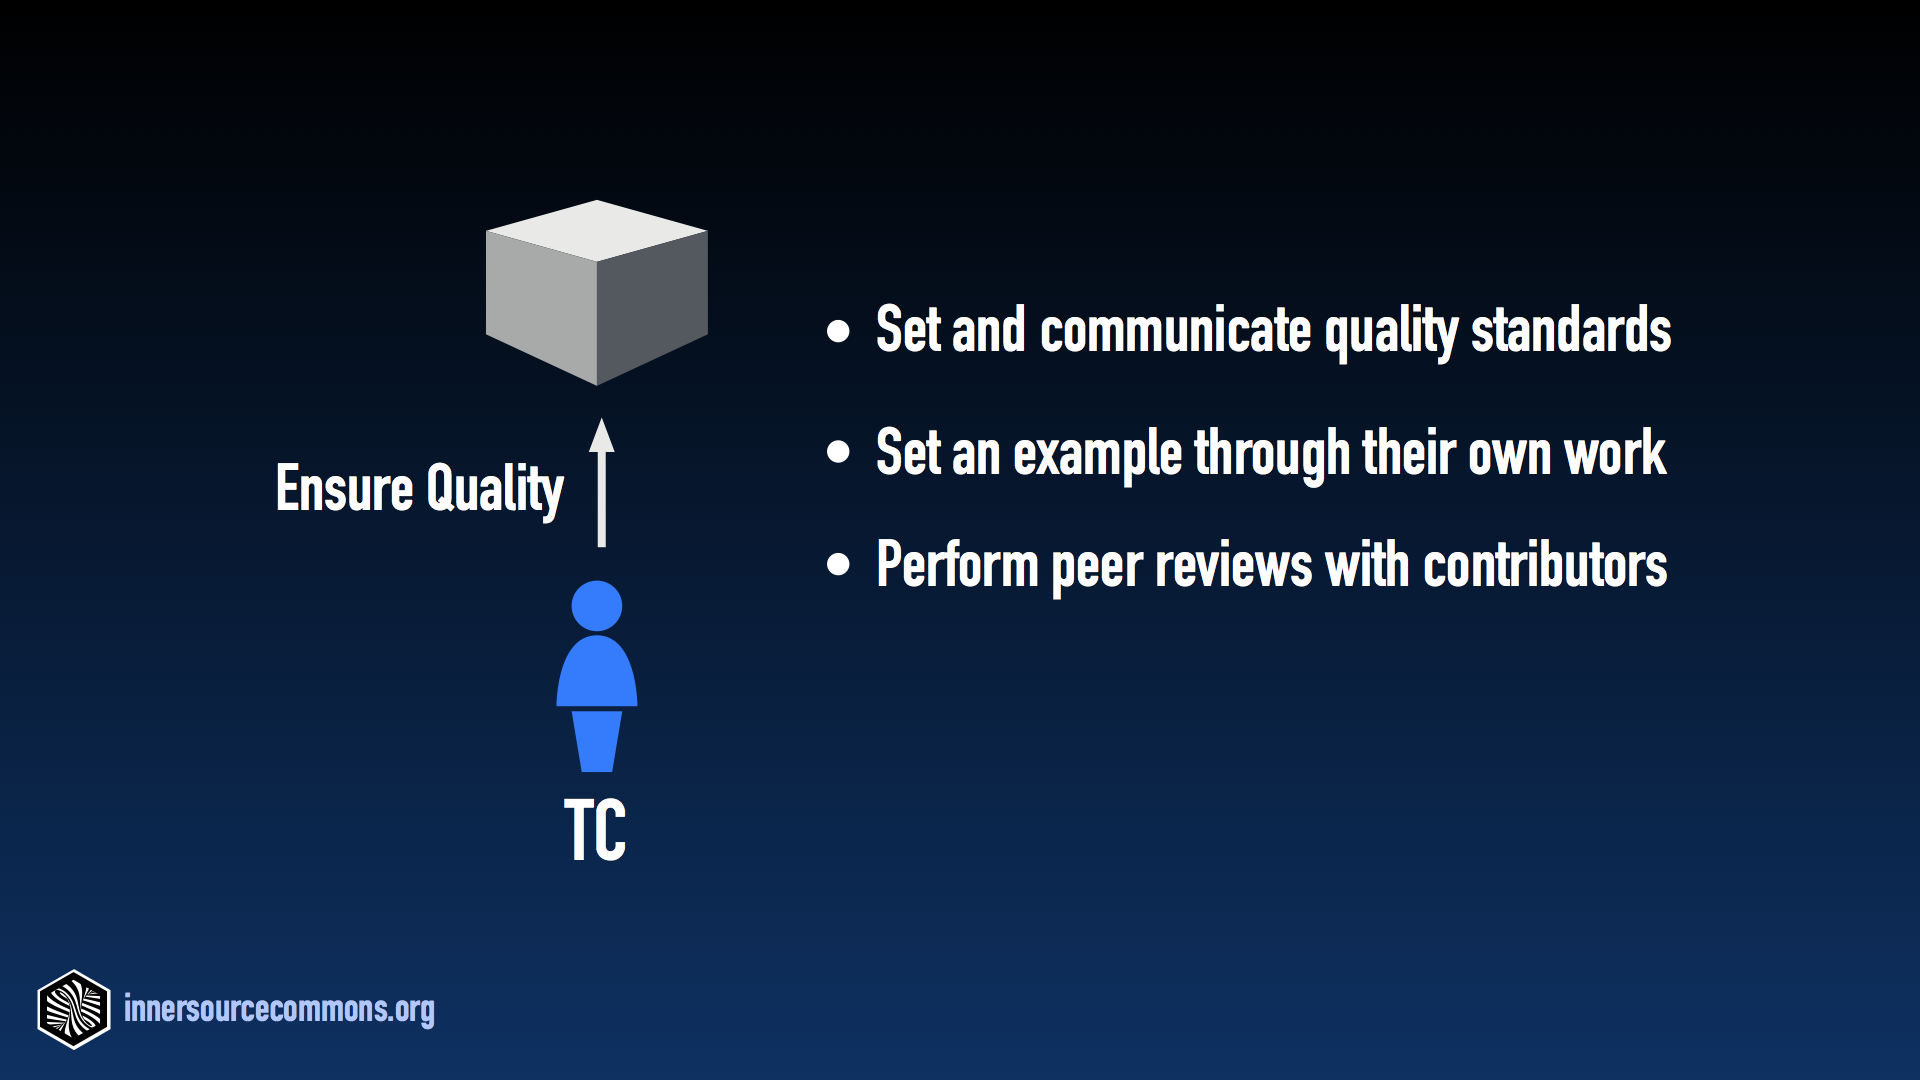
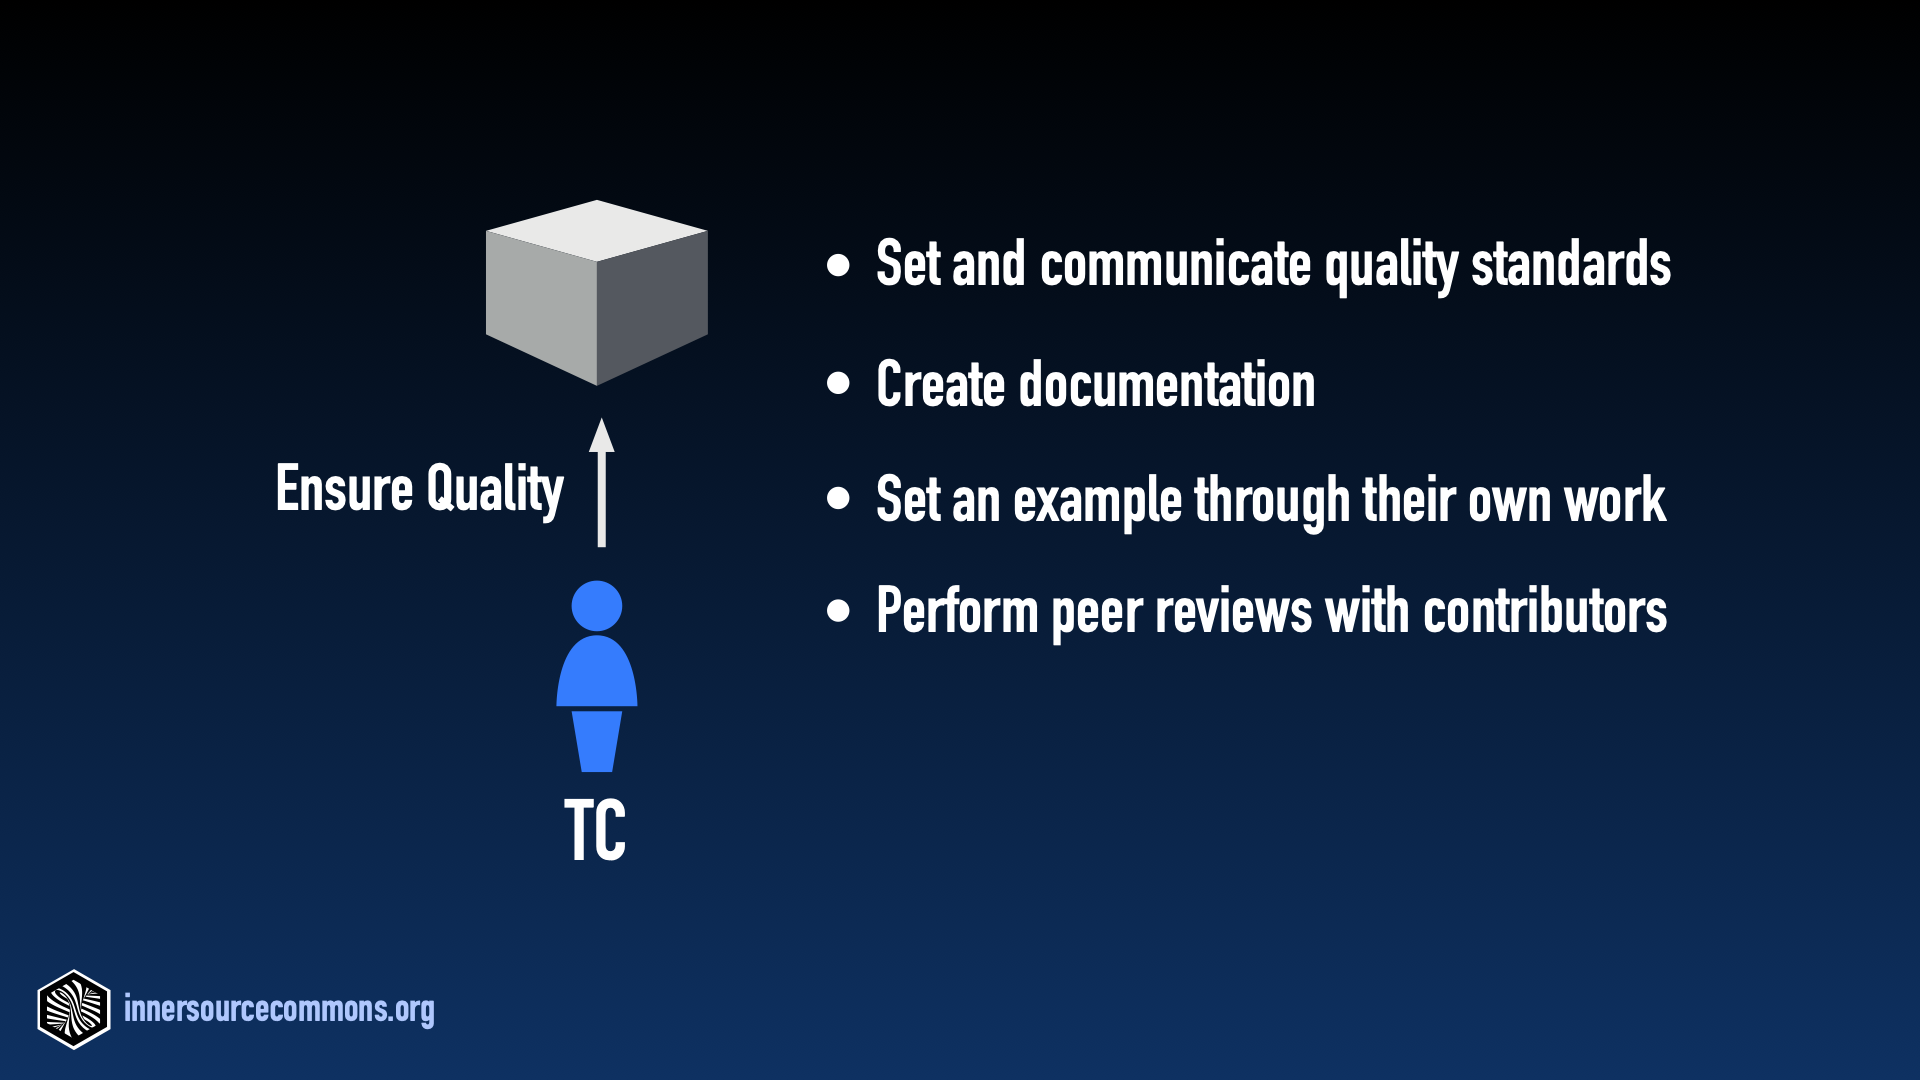
incorporated feedback of #20 by Russ and Loren. Thanks a lot for that.

diff --git a/trusted-committer-script.md b/trusted-committer-script.md
@@ -193,6 +193,7 @@ Summing up.
 Ensuring product quality is a key responsibility of TCs. They 
 
 -> Show quality-2.png
+-> Show quality-2-2.png
 
 set quality standards and 
 
